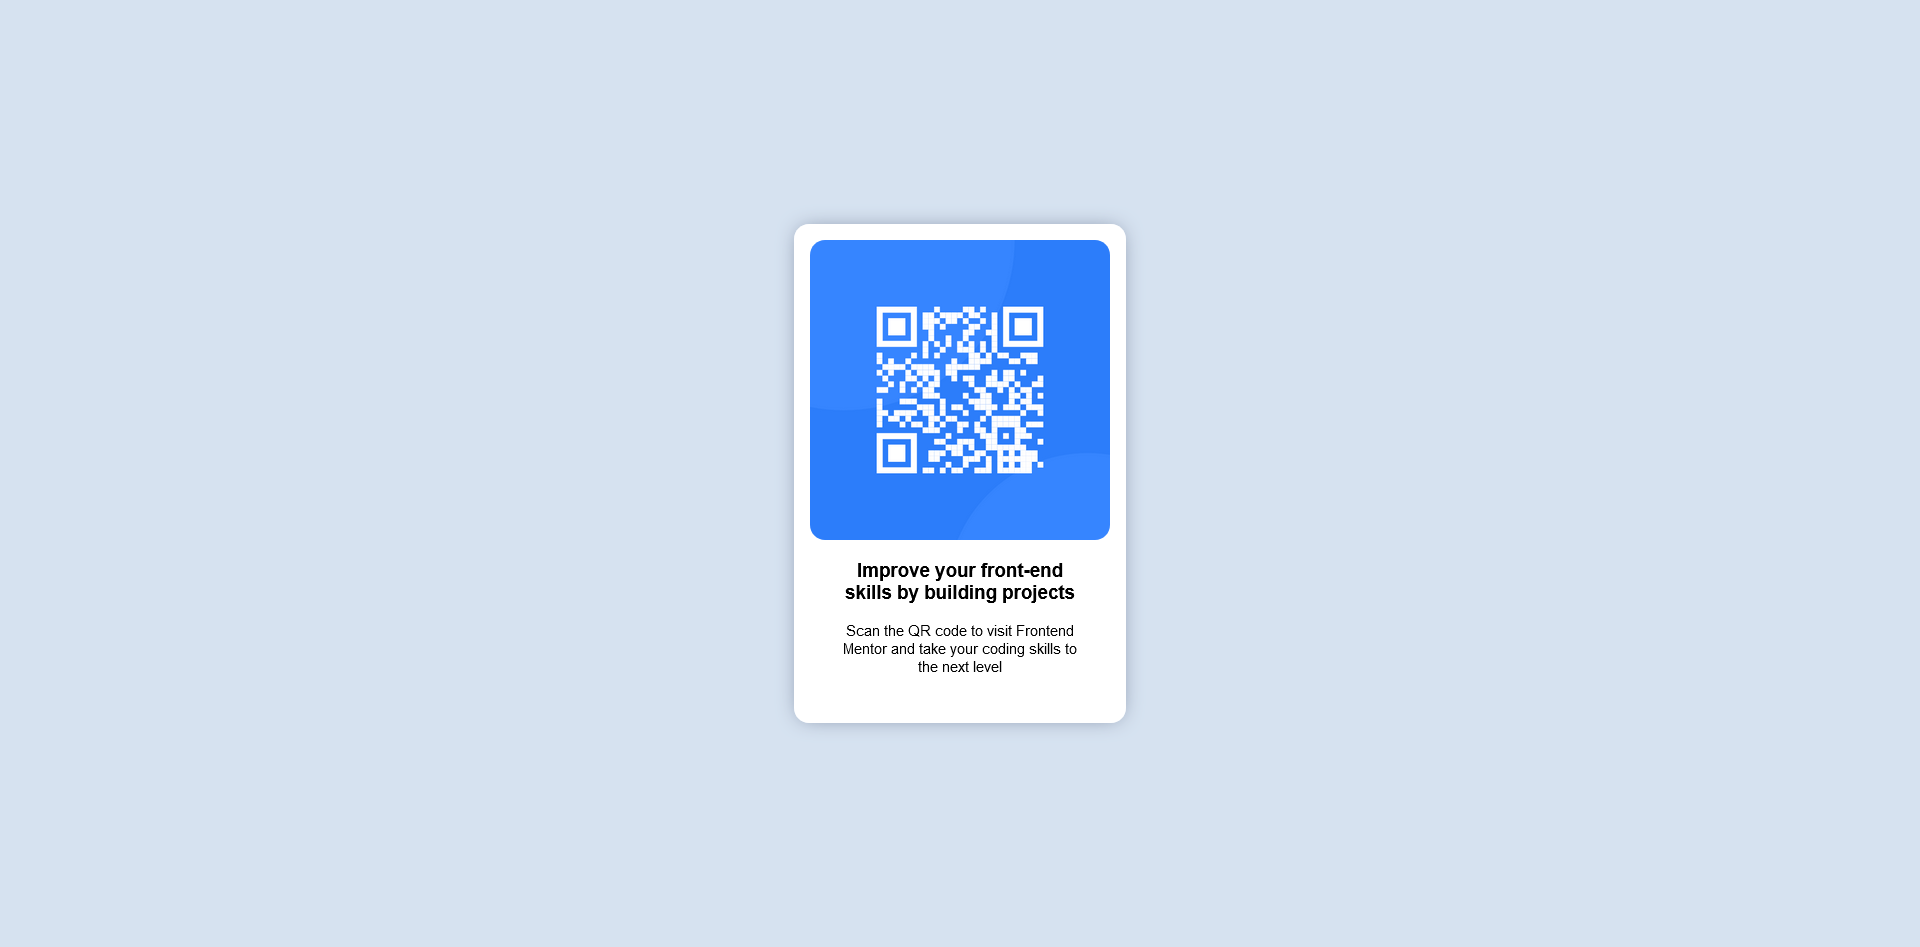
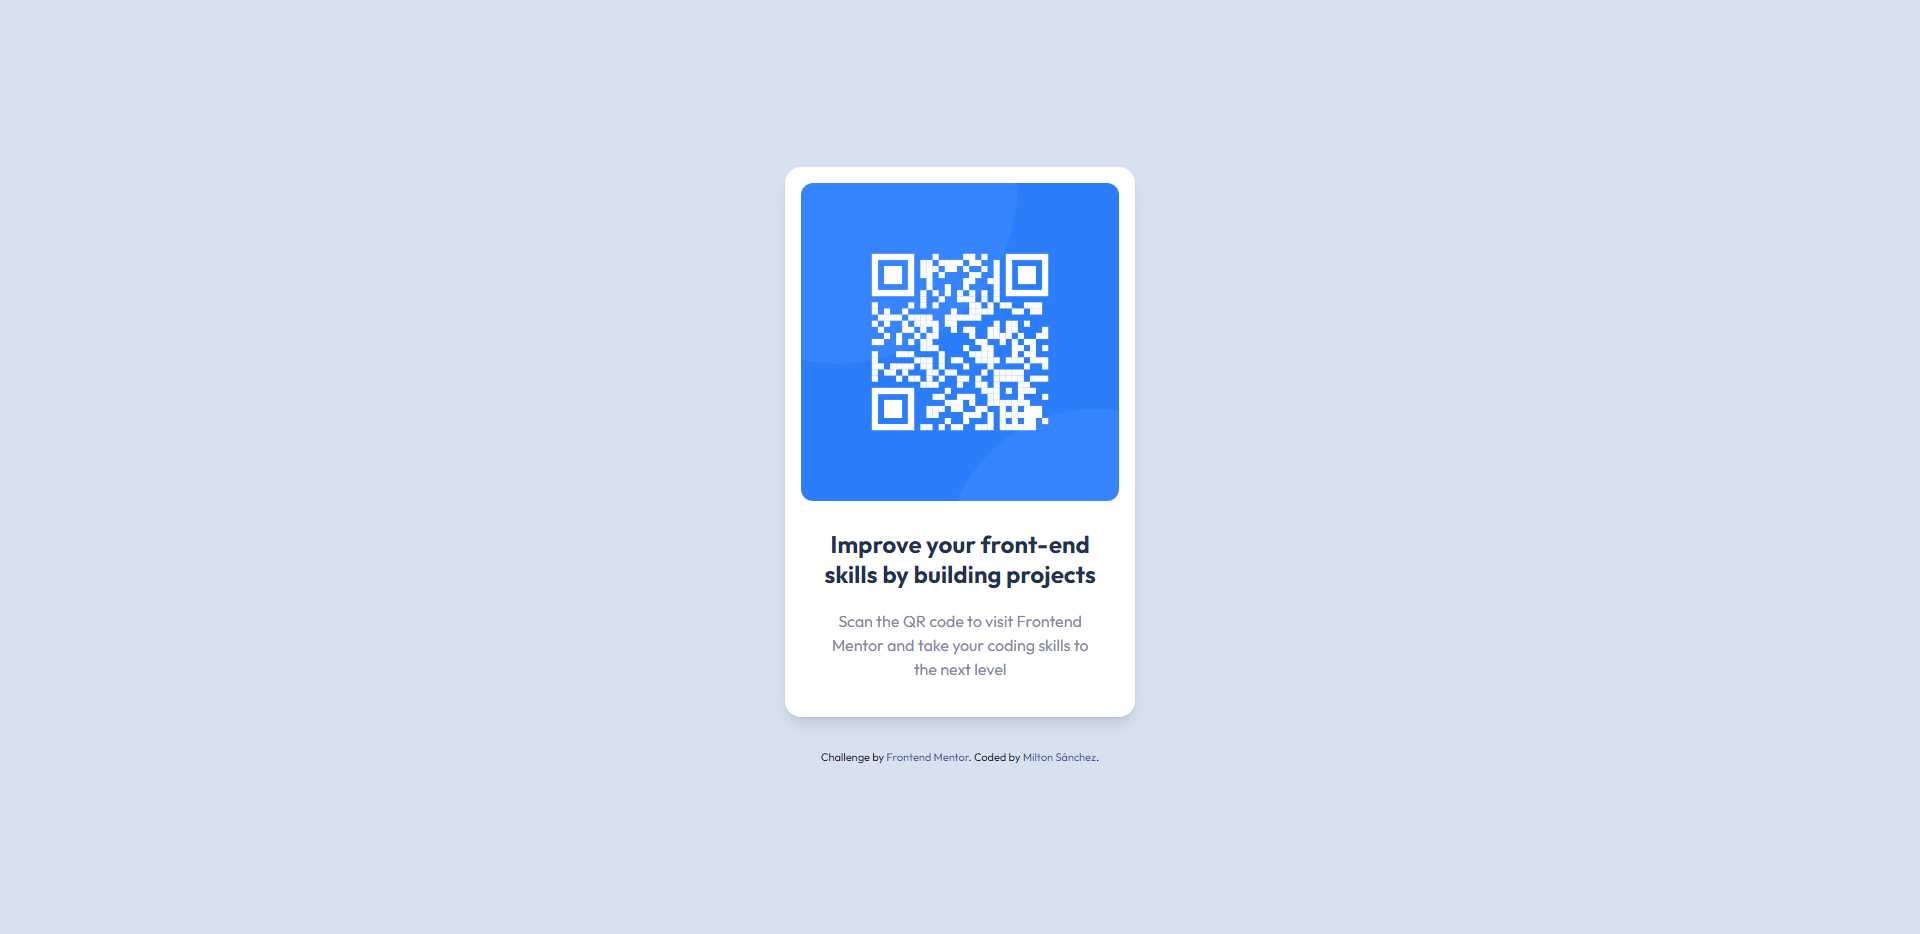
Challenge completed with tailwindcss

Changed region(s): [[0.4062, 0.1552, 0.5938, 0.7762], [0.4375, 0.8073, 0.5625, 0.8383]]

diff --git a/index.html b/index.html
@@ -4,27 +4,39 @@
     <meta charset="UTF-8">
     <meta http-equiv="X-UA-Compatible" content="IE=edge">
     <meta name="viewport" content="width=device-width, initial-scale=1.0">
-    <link rel="stylesheet" href="./index.css">
     <link rel="shortcut icon" href="./public/favicon.png" type="image/x-icon">
+    <script src="https://cdn.tailwindcss.com"></script>
+    <link rel="preconnect" href="https://fonts.googleapis.com">
+    <link rel="preconnect" href="https://fonts.gstatic.com" crossorigin>
+    <link href="https://fonts.googleapis.com/css2?family=Outfit:wght@400;700&display=swap" rel="stylesheet">
+    <script>
+        tailwind.config = {
+          theme: {
+            extend: {
+              fontFamily: {
+                'Outfit': ['"Outfit"', 'sans-serif']
+              }
+            }
+          }
+        }
+      </script>
     <title>Frontend Mentor | QR code component</title>
     <style>
         .attribution { font-size: 11px; text-align: center; margin-top: 32px;}
         .attribution a { color: hsl(228, 45%, 44%); }
     </style>
 </head>
-<body>
-    <div id="container">
-        <main class="qr-container">
-            <img src="./public/image-qr-code.png" alt="qr-code" />
-            <div class="text-container">
-                <h3>Improve your front-end skills by building projects</h3>
-                <p>Scan the QR code to visit Frontend Mentor and take your coding skills to the next level</p>
-            </div>
-        </main>
-        <footer class="attribution">
-            Challenge by <a href="https://www.frontendmentor.io?ref=challenge" target="_blank">Frontend Mentor</a>. 
-            Coded by <a target="_blank" href="https://github.com/sanchezmilton">Milton Sánchez</a>.
-        </footer>
-    </div>
+<body class="bg-[#d6e2f0] flex flex-col items-center justify-center h-screen font-Outfit">
+    <main class="w-[350px] mx-[30px] p-4 bg-white rounded-2xl shadow-lg">
+        <img class="rounded-xl" src="./public/image-qr-code.png" alt="qr-code" />
+        <div class="flex flex-col">
+            <h1 class="text-[#1f3251] mx-2 text-2xl font-bold leading-tight text-center mt-7">Improve your front-end skills by building projects</h1>
+            <p class="text-[#7b879d] mx-6 my-5 text-base text-center">Scan the QR code to visit Frontend Mentor and take your coding skills to the next level</p>
+        </div>
+    </main>
+    <footer class="attribution">
+        Challenge by <a href="https://www.frontendmentor.io?ref=challenge" target="_blank">Frontend Mentor</a>. 
+        Coded by <a target="_blank" href="https://github.com/sanchezmilton">Milton Sánchez</a>.
+    </footer>
 </body>
 </html>

diff --git a/old/index.html b/old/index.html
@@ -1,0 +1,30 @@
+<!DOCTYPE html>
+<html lang="en">
+<head>
+    <meta charset="UTF-8">
+    <meta http-equiv="X-UA-Compatible" content="IE=edge">
+    <meta name="viewport" content="width=device-width, initial-scale=1.0">
+    <link rel="stylesheet" href="./index.css">
+    <link rel="shortcut icon" href="./public/favicon.png" type="image/x-icon">
+    <title>Frontend Mentor | QR code component</title>
+    <style>
+        .attribution { font-size: 11px; text-align: center; margin-top: 32px;}
+        .attribution a { color: hsl(228, 45%, 44%); }
+    </style>
+</head>
+<body>
+    <div id="container">
+        <main class="qr-container">
+            <img src="./public/image-qr-code.png" alt="qr-code" />
+            <div class="text-container">
+                <h3>Improve your front-end skills by building projects</h3>
+                <p>Scan the QR code to visit Frontend Mentor and take your coding skills to the next level</p>
+            </div>
+        </main>
+        <footer class="attribution">
+            Challenge by <a href="https://www.frontendmentor.io?ref=challenge" target="_blank">Frontend Mentor</a>. 
+            Coded by <a target="_blank" href="https://github.com/sanchezmilton">Milton Sánchez</a>.
+        </footer>
+    </div>
+</body>
+</html>

diff --git a/README.md b/README.md
@@ -30,10 +30,13 @@ This is a solution to the [QR code component challenge on Frontend Mentor](https
 - HTML5 semantic markup
 - CSS custom properties
 - Flexbox
+- Tailwindcss
 
 ### Continued development
 
-This is more of an overview of basic HTML and CSS, but I'd like to go deeper into improving the order and style of my web apps. Later I will investigate more about tools for CSS and I plan to also try Svelte and SvelteKit in dynamic web apps.
+This is more of an overview of basic HTML and CSS, but I'd like to go deeper into improving the order and style of my web apps. Later I will investigate more about tools for CSS.
+
+**Update**: I remade the challenge using Tailwindcss and the process was quite fast compared to using only css. I will keep practicing and adapting to this framework!
 
 ## Author
 
